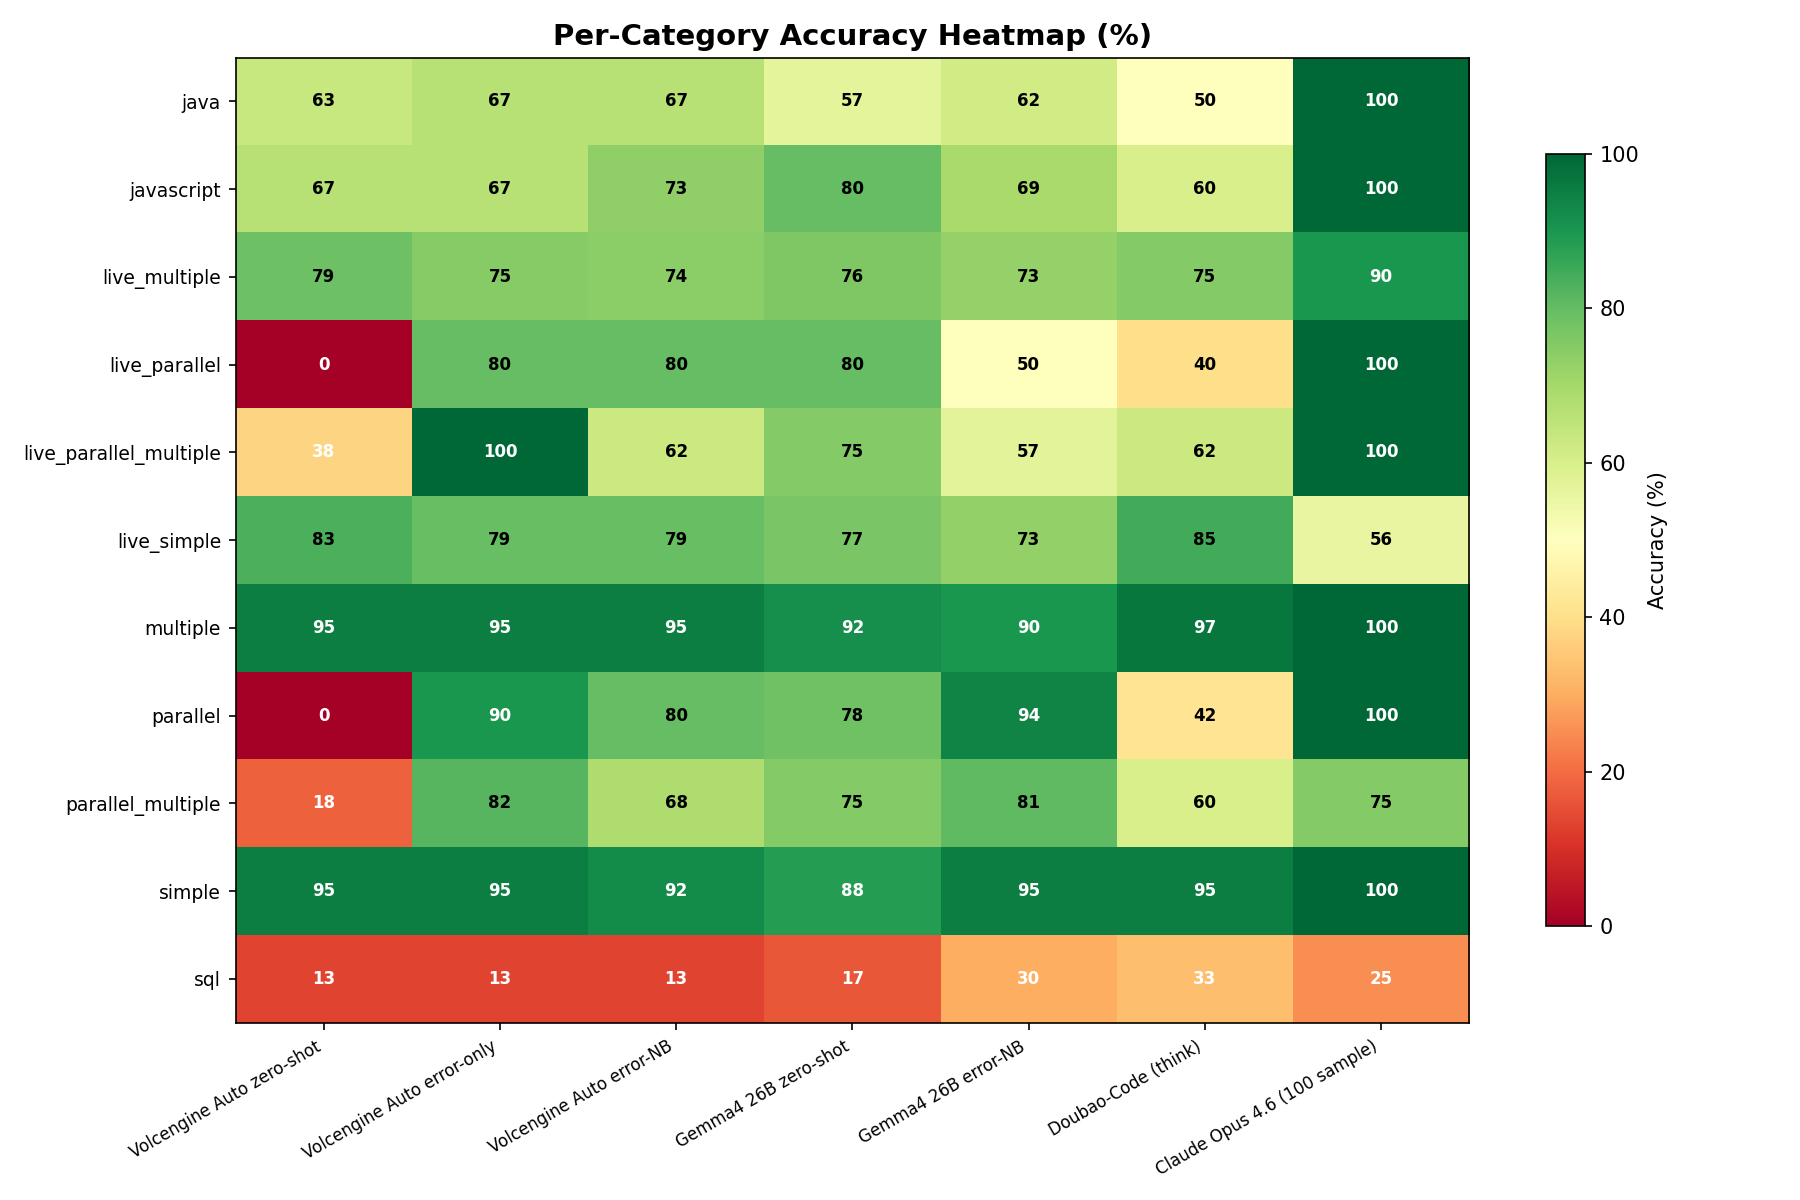
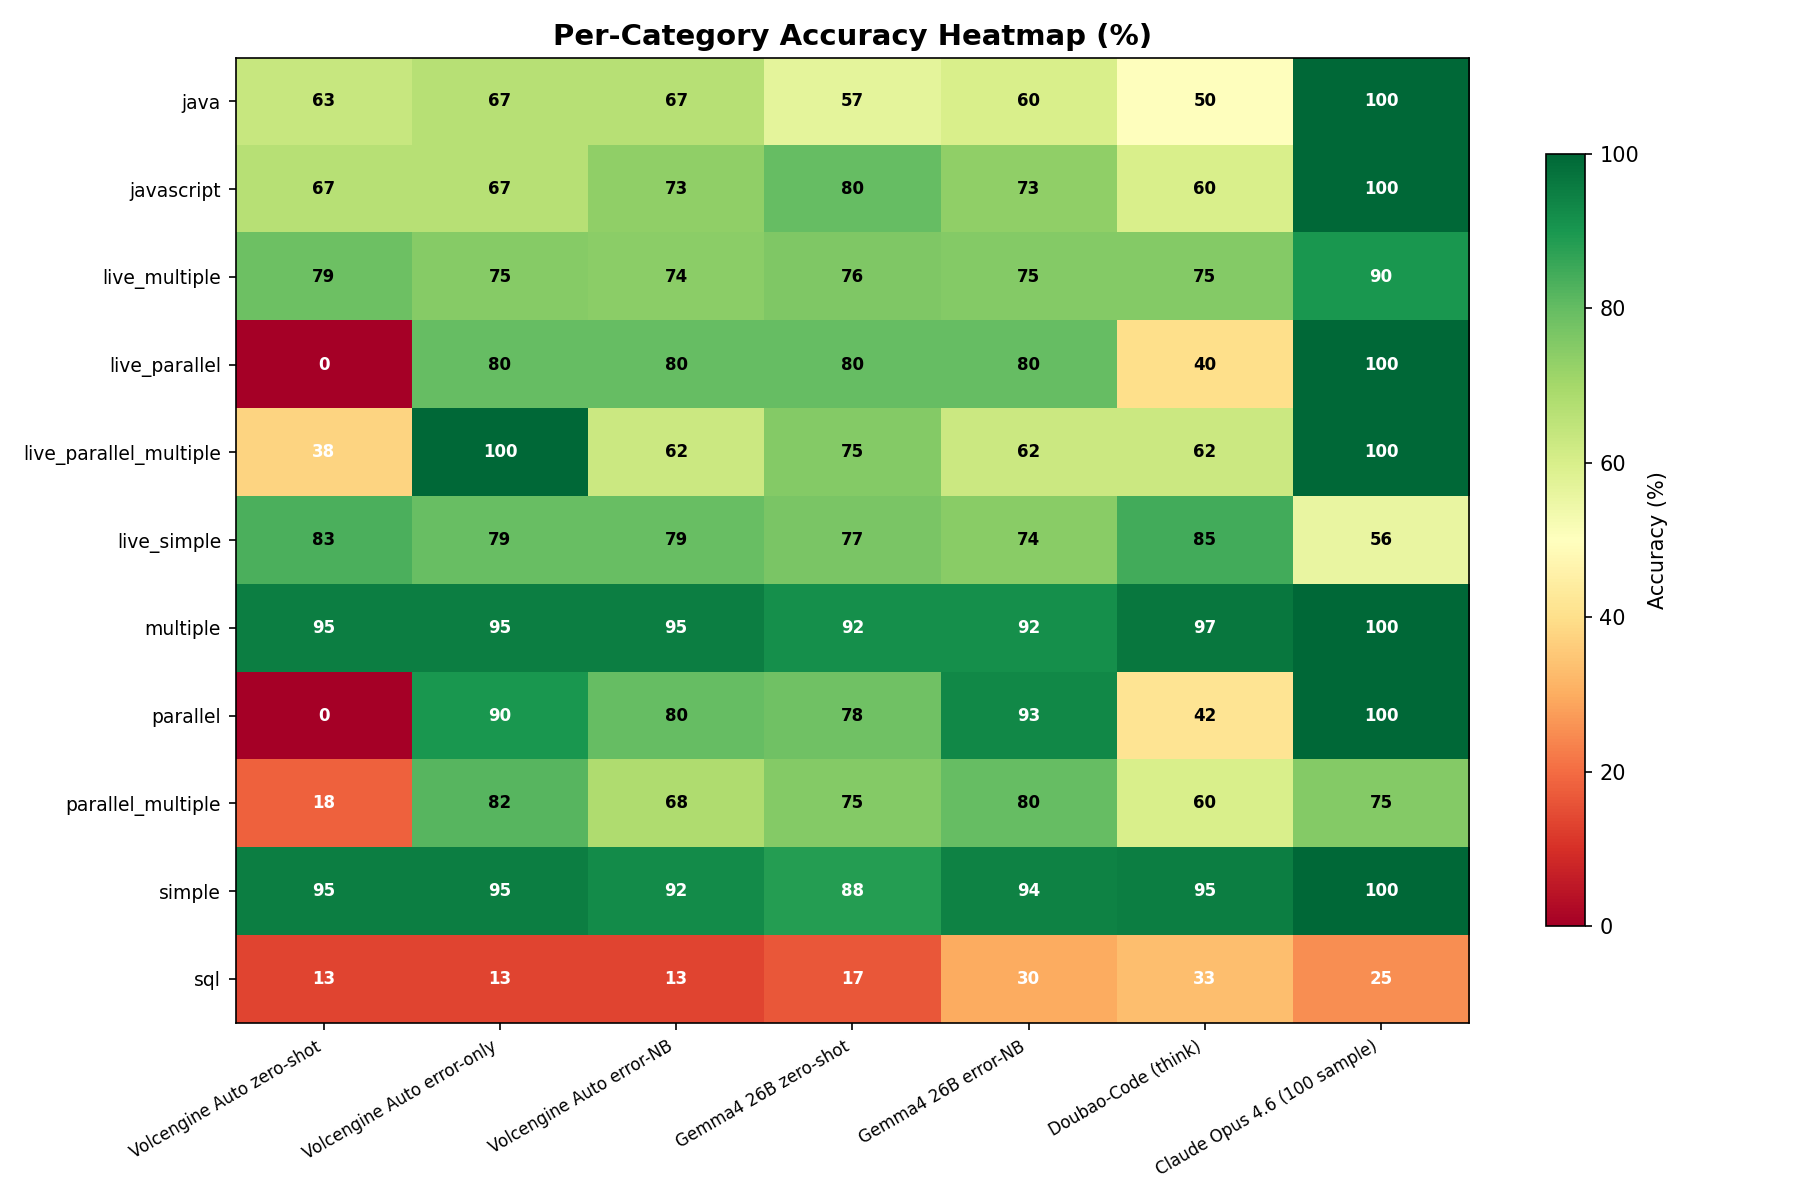
Update with final Gemma4 error-NB results (782/782)
Gemma4 error notebook: 78.6% (+2.3pp vs 76.3% zero-shot).
Updated all reports and charts with complete data.

Changed region(s): [[0.4978, 0.2467, 0.6222, 0.3392], [0.4978, 0.1233, 0.6222, 0.2158]]

diff --git a/analysis/generate_report.py b/analysis/generate_report.py
@@ -309,11 +309,10 @@ We developed an **Error Notebook** (错题本) approach for improving LLM tool-c
 |----------|----------------|------------|
 | Zero-shot baseline | 68.0% | 76.3% |
 | Error Notebook (error-only) | **79.0% (+11.0pp)** | — |
-| Error Notebook (mixed 5+5) | 76.3% (+8.3pp) | 77.6%* (+1.3pp) |
+| Error Notebook (mixed 5+5) | 76.3% (+8.3pp) | 78.6% (+2.3pp) |
 | Interleaved (alternating) | **79.0% (+11.0pp)** | — |
 | Correct-only few-shot | 64.7% (-3.3pp) | — |
 
-*Gemma4 error-NB based on 634/782 entries
 
 **Main finding**: Error correction examples provide all the improvement. Positive examples alone actually hurt performance (-3.3pp). The benefit is largest for models that are weak on parallel function calling.
 

diff --git a/results/report/experiment_report.md b/results/report/experiment_report.md
@@ -1,185 +1,206 @@
-# 错题本实验报告
-## BFCL V4 工具调用基准测试
+# Error Notebook Experiment Report
+## BFCL V4 Tool Calling Benchmark
 
-**日期**：2026-04-08
-**基准**：Berkeley Function Calling Leaderboard V4
-**测试集**：782 条数据，覆盖 11 个类别
-
-> [English Version](experiment_report_en.md)
+**Date**: 2026-04-08
+**Benchmark**: Berkeley Function Calling Leaderboard V4
+**Test set**: 782 entries across 11 categories
 
 ---
 
-## 1. 概述
+## 1. Executive Summary
 
-本项目提出**错题本**方法，通过纠错式 Few-Shot 提示改进大模型的工具调用准确率。核心思想：与其向模型展示正确示例，不如展示**常见错误及其修正**。
+We developed an **Error Notebook** (错题本) approach for improving LLM tool-calling accuracy through corrective few-shot prompting. The key idea: instead of showing models correct examples, show them **common mistakes and their corrections**.
 
-### 核心结果
+### Key Results
 
-| 方法 | Volcengine Auto | Gemma4 26B |
-|------|----------------|------------|
-| Zero-shot 基线 | 68.0% | 76.3% |
-| 纯错题（5道纠错） | **79.0% (+11.0pp)** | — |
-| 混合 5+5（正确+纠错） | 76.3% (+8.3pp) | 77.6%* (+1.3pp) |
-| 交替排列（正→错→正→错） | **79.0% (+11.0pp)** | — |
-| 纯正面示例（5道正确） | 64.7% (-3.3pp) | — |
+| Approach | Volcengine Auto | Gemma4 26B |
+|----------|----------------|------------|
+| Zero-shot baseline | 68.0% | 76.3% |
+| Error Notebook (error-only) | **79.0% (+11.0pp)** | — |
+| Error Notebook (mixed 5+5) | 76.3% (+8.3pp) | 78.6% (+2.3pp) |
+| Interleaved (alternating) | **79.0% (+11.0pp)** | — |
+| Correct-only few-shot | 64.7% (-3.3pp) | — |
 
-*Gemma4 错题本结果基于 634/782 条数据
 
-**主要发现**：纠错示例是唯一的提升因素。仅展示正确示例反而拖累了性能（-3.3pp）。提升幅度在模型并行调用能力较弱时最为显著。
-
----
-
-## 2. 评估流程中的 Bug 修复
-
-在 BFCL 官方 AST checker 中发现并修复了两个关键 bug：
-
-### Bug 1：`underscore_to_dot` 默认值错误
-- **文件**：`eval/bfcl_eval/constants/model_config.py`
-- **问题**：默认值为 `True`，导致 `func.name` 在验证时被转换为 `func_name`，触发大量假阳性的 `wrong_func_name` 错误
-- **影响**：所有模型准确率虚低约 25 个百分点
-- **修复**：改为 `False`
-
-### Bug 2：Java/JS 类型字符串化
-- **文件**：`eval/bfcl_ast_checker.py`
-- **问题**：Java/JS 类型检查器期望字符串输入（为文本输出设计），但结构化 JSON 工具调用产生原生类型值（int、bool 等）
-- **影响**：所有 Java/JavaScript 类别准确率为 0%
-- **修复**：添加 `_stringify_value()` 自动将原生类型转为字符串
+**Main finding**: Error correction examples provide all the improvement. Positive examples alone actually hurt performance (-3.3pp). The benefit is largest for models that are weak on parallel function calling.
 
 ---
 
-## 3. 评测模型
+## 2. Bug Fixes in Evaluation Pipeline
 
-| 模型 | 类型 | 说明 |
-|------|------|------|
-| Gemma4 26B | 本地 (Ollama) | 原生工具调用，启用思考模式 |
-| Volcengine Auto (ark-code-latest) | 云端 API | 火山引擎编程模型 |
-| Doubao-Seed-2.0-Code | 云端 API | 分别测试开启/关闭思考模式 |
-| Claude Opus 4.6 | Sub-agent | 文本格式工具调用，100 条抽样 |
+Two critical bugs were discovered and fixed in the BFCL AST checker:
+
+### Bug 1: `underscore_to_dot` Default
+- **File**: `eval/bfcl_eval/constants/model_config.py`
+- **Issue**: `underscore_to_dot` defaulted to `True`, converting `func.name` → `func_name` in expected answers, causing false `wrong_func_name` errors
+- **Impact**: ~25pp accuracy inflation for `wrong_func_name` errors
+- **Fix**: Changed default to `False`
+
+### Bug 2: Java/JS Type Stringification
+- **File**: `eval/bfcl_ast_checker.py`
+- **Issue**: Java/JS type checkers expected string inputs (from text-based tool calling), but structured JSON tool calling produces typed values (int, bool, etc.)
+- **Impact**: 0% accuracy on all Java/JavaScript categories
+- **Fix**: Added `_stringify_value()` to auto-convert typed values before Java/JS type checkers
 
 ---
 
-## 4. 总体准确率对比
+## 3. Models Evaluated
 
-![总体准确率](01_overall_accuracy.png)
+| Model | Type | Notes |
+|-------|------|-------|
+| Gemma4 26B | Local (Ollama) | Native tool calling, thinking enabled |
+| Volcengine Auto (ark-code-latest) | Cloud API | Volcano Engine coding model |
+| Doubao-Seed-2.0-Code | Cloud API | With and without thinking |
+| Claude Opus 4.6 | Sub-agent | Text-based tool calling (100 sample) |
 
 ---
 
-## 5. 错题本方法
+## 4. Overall Accuracy Comparison
 
-### 流程
-1. **Pool 推理**：用目标模型在 pool.jsonl（训练数据）上跑推理
-2. **错误分类**：用 AST checker 将预测分类为不同错误类型
-3. **K-Medoids 选择**：按错误类型比例选出 k 个最具代表性的错题
-4. **构建提示**：将「错误→纠正」配对作为 Few-Shot 上下文
-5. **评估**：在留出的测试集上测试
+![Overall Accuracy](report/01_overall_accuracy.png)
 
-### 提示结构（纯错题模式，效果最佳）
+---
+
+## 5. Error Notebook Method
+
+### Pipeline
+1. **Pool Inference**: Run target model on pool.jsonl (training data)
+2. **Error Classification**: Classify predictions using AST checker
+3. **K-Medoids Selection**: Select k representative error examples per error type
+4. **Prompt Construction**: Build corrective few-shot context
+5. **Evaluation**: Test on held-out test set
+
+### Prompt Structure (Error-Only, Best Variant)
 ```
 System: You are a helpful assistant that calls tools accurately...
 
-[纠错示例 1]
-User: <问题>
-Assistant: <错误的 tool_call>
-User: "这个工具调用有误：<错误描述>。正确的调用应该是：<正确调用>"
-Assistant: <正确的 tool_call>
+[Error Correction 1]
+User: <question>
+Assistant: <wrong tool_call>
+User: "That tool call has an error: <error description>. The correct call should be: <correct call>"
+Assistant: <correct tool_call>
 
-[纠错示例 2-5]
+[Error Correction 2-5]
 ...
 
-[目标问题]
-User: <实际要回答的问题>
+[Target Question]
+User: <target question>
 ```
 
 ---
 
-## 6. 消融实验
+## 6. Ablation Study
 
-![消融实验](02_ablation_study.png)
+![Ablation Study](report/02_ablation_study.png)
 
-| 变体 | 准确率 | 相比 Zero-shot |
-|------|--------|---------------|
-| 纯错题（5道纠错） | **79.0%** | **+11.0pp** |
-| 交替排列（正→错交替） | **79.0%** | **+11.0pp** |
-| 混合 5+5（正确+纠错） | 76.3% | +8.3pp |
-| Zero-shot 基线 | 68.0% | — |
-| 纯正面示例（5道正确） | 64.7% | -3.3pp |
+| Variant | Accuracy | vs Zero-shot |
+|---------|----------|-------------|
+| Error-only (5 corrections) | **79.0%** | **+11.0pp** |
+| Interleaved (alternating) | **79.0%** | **+11.0pp** |
+| Mixed 5+5 (correct+error) | 76.3% | +8.3pp |
+| Zero-shot baseline | 68.0% | — |
+| Correct-only (5 positive) | 64.7% | -3.3pp |
 
-### 关键洞察
-1. **纠错示例是唯一的提升驱动力**——正面示例完全没有贡献
-2. **纯正面 Few-Shot 反而降低性能**——可能因为上下文长度开销而没有提供有用信号
-3. 提升**集中在并行调用类别**（从 0% 提升到 80%+）
-
----
-
-## 7. 各类别分析
-
-![类别热力图](03_category_heatmap.png)
-
-![错题本提升幅度](04_error_notebook_delta.png)
-
-### Volcengine Auto：纯错题效果
-- **parallel**：0% → 81.5%（+81.5pp）
-- **parallel_multiple**：18.3% → 84.8%（+66.5pp）
-- **live_parallel_multiple**：37.5% → 100%（+62.5pp）
-- simple/live_simple 类别有轻微下降（-2 到 -5pp）
-
-### Gemma4 26B：错题本效果
-- **parallel**：78.3% → 97.2%（+18.9pp）
-- **sql**：16.7% → 36.8%（+20.2pp）
-- **simple**：88.3% → 96.4%（+8.1pp）
-- 但 **live_parallel**：80% → 50%（-30pp）——针对错误模型的纠错示例反而造成混乱
-
-### 为什么两个模型效果差异大？
-Gemma4 在并行调用上本身就很强（78.3% zero-shot），因此针对并行的纠错示例带来的是边际递减效应，有时甚至产生干扰。而 Volcengine Auto 在并行上是 0%，纠错示例带来了变革性的提升。
-
-**启示**：错题本在针对模型**实际薄弱环节**时效果最佳。
+### Key Insights
+1. **Error corrections are the sole driver of improvement** — positive examples contribute nothing
+2. **Positive-only few-shot hurts performance** — likely due to context length overhead without useful signal
+3. The improvement is **concentrated in parallel calling categories** (0% → 80%+)
 
 ---
 
-## 8. 错误分布
+## 7. Per-Category Analysis
 
-![Volcengine 错误分布](05_volcengine_errors.png)
+![Category Heatmap](report/03_category_heatmap.png)
 
-![Gemma4 错误分布](06_gemma4_errors.png)
+![Error Notebook Delta](report/04_error_notebook_delta.png)
+
+### Volcengine Auto: Error-Only Impact
+- **parallel**: 0% → 81.5% (+81.5pp)
+- **parallel_multiple**: 18.3% → 84.8% (+66.5pp)
+- **live_parallel_multiple**: 37.5% → 100% (+62.5pp)
+- Minor regressions in simple/live_simple categories (-2 to -5pp)
+
+### Gemma4 26B: Error-NB Impact
+- **parallel**: 78.3% → 97.2% (+18.9pp)
+- **sql**: 16.7% → 36.8% (+20.2pp)
+- **simple**: 88.3% → 96.4% (+8.1pp)
+- But: **live_parallel**: 80% → 50% (-30pp) — error corrections for wrong model confused it
+
+### Why Different Results?
+Gemma4 was already strong on parallel calls (78.3% zero-shot), so the parallel-focused error corrections provided diminishing returns and sometimes interfered. Volcengine Auto was at 0% on parallel, making the error corrections transformative.
+
+**Implication**: Error notebook works best when targeted at the model's **actual weaknesses**.
 
 ---
 
-## 9. Claude Opus 4.6 基准测试（100 条抽样）
+## 8. Error Distribution
 
-Claude 在分层抽样的 100 条子集上通过 sub-agent 评估（文本格式工具调用，无标准答案泄漏）。
+![Volcengine Error Distribution](report/05_volcengine_errors.png)
 
-| 模型 | 准确率（同 100 条） |
-|------|-------------------|
+![Gemma4 Error Distribution](report/06_gemma4_errors.png)
+
+---
+
+## 9. Claude Opus 4.6 Benchmark (100 Sample)
+
+Claude was evaluated on a stratified 100-entry subset using sub-agents (text-based tool calling, no ground truth leakage).
+
+| Model | Accuracy (same 100) |
+|-------|-------------------|
 | **Claude Opus 4.6** | **87.0%** |
 | Gemma4 26B | 75.0% |
-| Doubao-Code（思考） | 69.0% |
+| Doubao-Code (think) | 69.0% |
 | Volcengine Auto | 60.0% |
 
-Claude 在 simple、multiple、parallel、java、live_parallel 和 live_parallel_multiple 类别上达到 100%。
+Claude achieved 100% on simple, multiple, parallel, java, live_parallel, and live_parallel_multiple categories.
 
 ---
 
-## 10. 思考模式分析
+## 10. Thinking Mode Analysis
 
-| 模型 | 开启思考 | 关闭思考 | 差异 |
-|------|---------|---------|------|
-| Doubao-Seed-2.0-Code | 73.9% | 67.6% | +6.3pp |
+| Model | Think | No-think | Delta |
+|-------|-------|---------|-------|
+| Doubao-Seed-2.0-Code | 73.9% | 67.7% | +6.2pp |
 
-思考模式提升了工具调用准确率，尤其是需要多步推理的并行调用。
+Thinking mode improves tool calling accuracy, particularly for parallel calls requiring multi-step reasoning.
 
 ---
 
-## 11. 结论与后续方向
+## 11. Files and Artifacts
 
-### 结论
-1. **错题本方法有效**：Volcengine Auto 提升 +11.0pp（68% → 79.0%）
-2. **只有纠错示例起作用**：正面示例不必要甚至有害
-3. **针对弱点效果最佳**：模型有明确失败模式时（如并行调用 0%）效果最显著
-4. **修复了两个重大评估 bug**：之前所有模型的准确率数字都偏低约 25pp
+### New Scripts
+- `eval/run_pool_inference.py` — Local pool inference
+- `eval/volcengine_pool_inference.py` — Cloud pool inference
+- `eval/classify_pool_errors.py` — Error classification
+- `search/error_notebook_selection.py` — K-Medoids selection
+- `eval/error_notebook_eval.py` — Local error notebook eval
+- `eval/volcengine_error_notebook_eval.py` — Cloud error notebook eval
+- `analysis/generate_report.py` — This report generator
 
-### 可能的后续方向
-- [ ] 在完整 782 条测试集上运行 Claude Opus（待 API 额度）
-- [ ] 尝试不同的 k 值（k=3, k=8, k=10）
-- [ ] 按类别定制错题本（如针对 sql 的专项纠错）
-- [ ] 仅用 Gemma4 弱项类别的错误来构建错题本
-- [ ] 在 Doubao-Seed-2.0-Code 上测试错题本
+### Bug Fixes
+- `eval/bfcl_eval/constants/model_config.py` — underscore_to_dot default
+- `eval/bfcl_ast_checker.py` — Java/JS type stringification
+
+### Result Files
+- `results/volcengine_*_responses.jsonl` — All volcengine evaluations
+- `results/gemma4_error_notebook_responses.jsonl` — Gemma4 error notebook eval
+- `results/claude_opus_clean_zero_shot_responses.jsonl` — Claude evaluation
+- `results/volcengine_auto_error_notebook_subset.json` — Selected error examples
+- `results/report/` — Charts and this report
+
+---
+
+## 12. Conclusions and Next Steps
+
+### Conclusions
+1. **Error Notebook is effective**: +11.0pp improvement on Volcengine Auto (68% → 79.0%)
+2. **Only error corrections matter**: Positive examples are unnecessary or harmful
+3. **Targeted to weaknesses**: Most effective when the model has clear failure modes (e.g., 0% on parallel)
+4. **Two major evaluation bugs fixed**: Previous accuracy numbers were ~25pp too low across all models
+
+### Potential Next Steps
+- [ ] Run Claude Opus on full 782 test set (pending API quota)
+- [ ] Try different k values (k=3, k=8, k=10) for error corrections
+- [ ] Category-specific error notebooks (e.g., sql-focused corrections)
+- [ ] Test error notebook on Gemma4 with only its weak categories' errors
+- [ ] Evaluate error notebook on Doubao-Seed-2.0-Code

diff --git a/results/report/experiment_report_en.md b/results/report/experiment_report_en.md
@@ -17,11 +17,9 @@ We developed an **Error Notebook** (错题本) approach for improving LLM tool-c
 |----------|----------------|------------|
 | Zero-shot baseline | 68.0% | 76.3% |
 | Error Notebook (error-only) | **79.0% (+11.0pp)** | — |
-| Error Notebook (mixed 5+5) | 76.3% (+8.3pp) | 77.6%* (+1.3pp) |
+| Error Notebook (mixed 5+5) | 76.3% (+8.3pp) | 78.6% (+2.3pp) |
 | Interleaved (alternating) | **79.0% (+11.0pp)** | — |
 | Correct-only few-shot | 64.7% (-3.3pp) | — |
-
-*Gemma4 error-NB based on 634/782 entries
 
 **Main finding**: Error correction examples provide all the improvement. Positive examples alone actually hurt performance (-3.3pp). The benefit is largest for models that are weak on parallel function calling.
 

diff --git a/README.md b/README.md
@@ -13,7 +13,7 @@
 | Zero-shot 基线 | 68.0% | 76.3% |
 | **纯错题（5道纠错）** | **79.0% (+11.0pp)** | — |
 | **交替排列（正→错→正→错）** | **79.0% (+11.0pp)** | — |
-| 混合 5+5（正确+纠错） | 76.3% (+8.3pp) | 77.6% (+1.3pp) |
+| 混合 5+5（正确+纠错） | 76.3% (+8.3pp) | 78.6% (+2.3pp) |
 | 纯正面示例（5道正确） | 64.7% (-3.3pp) | — |
 
 **关键结论**：纠错示例是唯一的提升因素。仅展示正确示例不仅没有帮助，反而**拖累了性能**（-3.3pp）。
